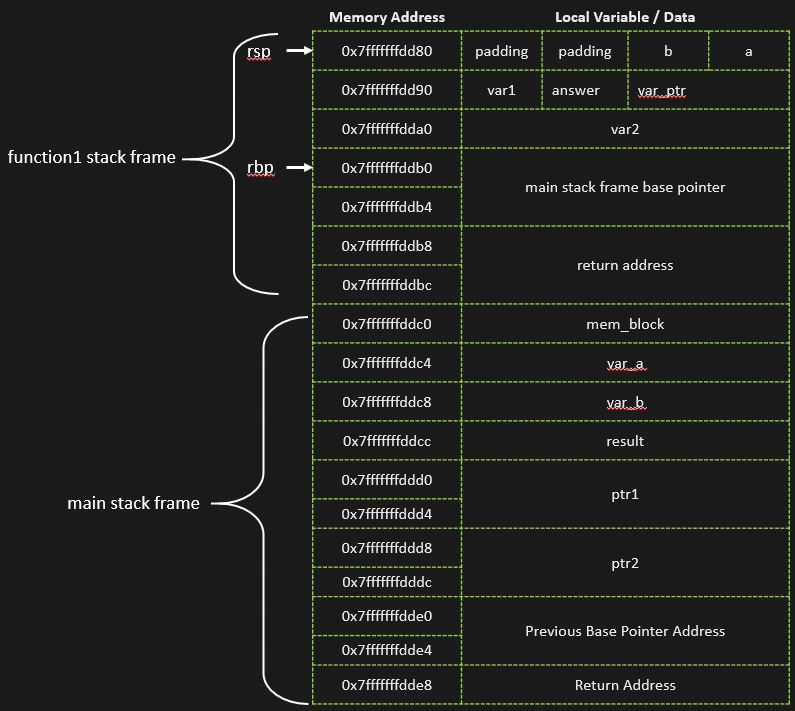
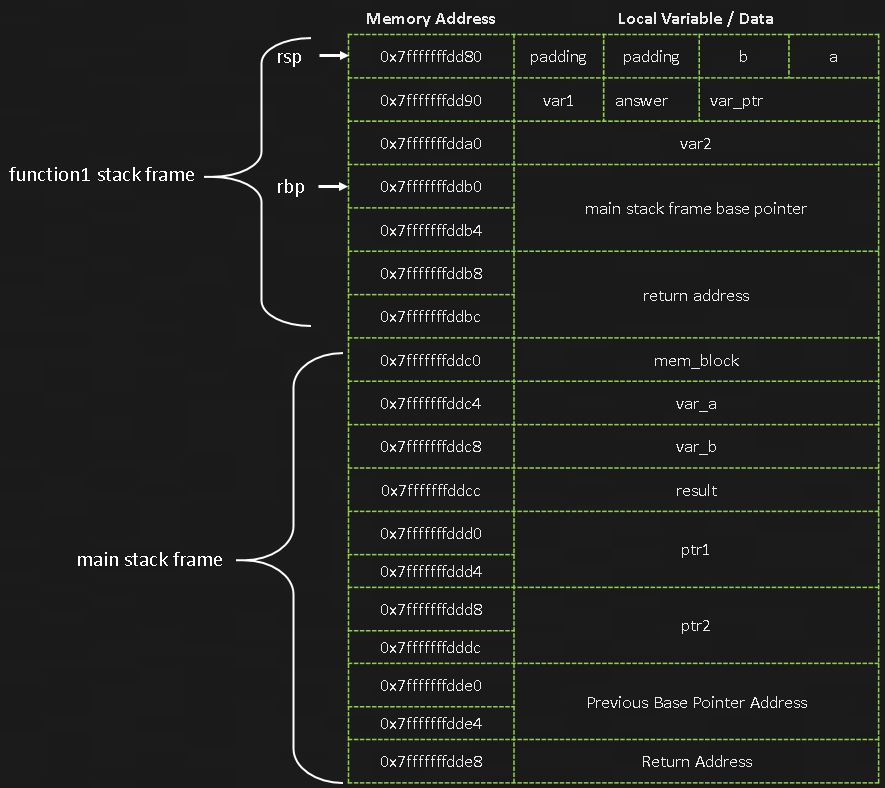
Fix images
Fix misspelled word highlights in images

diff --git a/_exdev/stack1.md b/_exdev/stack1.md
@@ -109,7 +109,7 @@ These first three assembly instructions, `push`, `mov`, and `sub`, are called th
 
 ## CPU Architecture
 
-The CPU uses special memory located directly on it called registers to store memory addresses, hold data for operations, and track the results of these operations. The size of a computer's register is determined by the system's "word size." The word size of a computer is the maximum number of bits it's CPU can process at once. On an x86 computer system, the word size is 32 bits, while on x64 systems the word size is 64 bits.
+The CPU uses special memory located directly on it called registers to store memory addresses, hold data for operations, and track the results of these operations. The size of a computer's register is determined by the system's "word size." The word size of a computer is the maximum number of bits its CPU can process at once. On an x86 computer system, the word size is 32 bits, while on x64 systems the word size is 64 bits.
 
 There are important differences between register names for 64- and 32-bit systems. All 64-bit registers start with the letter "r," (except for the eflags register), while all 32-bit registers start with the letter "e." The naming convention is a result of the way CPUs were developed over time. For a more in depth look, you can read this [Stack Exchange answer](https://softwareengineering.stackexchange.com/a/127764) about register naming conventions.
 
@@ -265,7 +265,7 @@ int function1(int a, int b) {
 </button>
 </div>
 
-Save this to a file and compile it with `gcc -g -o mem_segments mem_segments.c`. We'll run the program in gdb and look at it's memory segments.
+Save this to a file and compile it with `gcc -g -o mem_segments mem_segments.c`. We'll run the program in gdb and look at its memory segments.
 
 ## Code Segment
 
